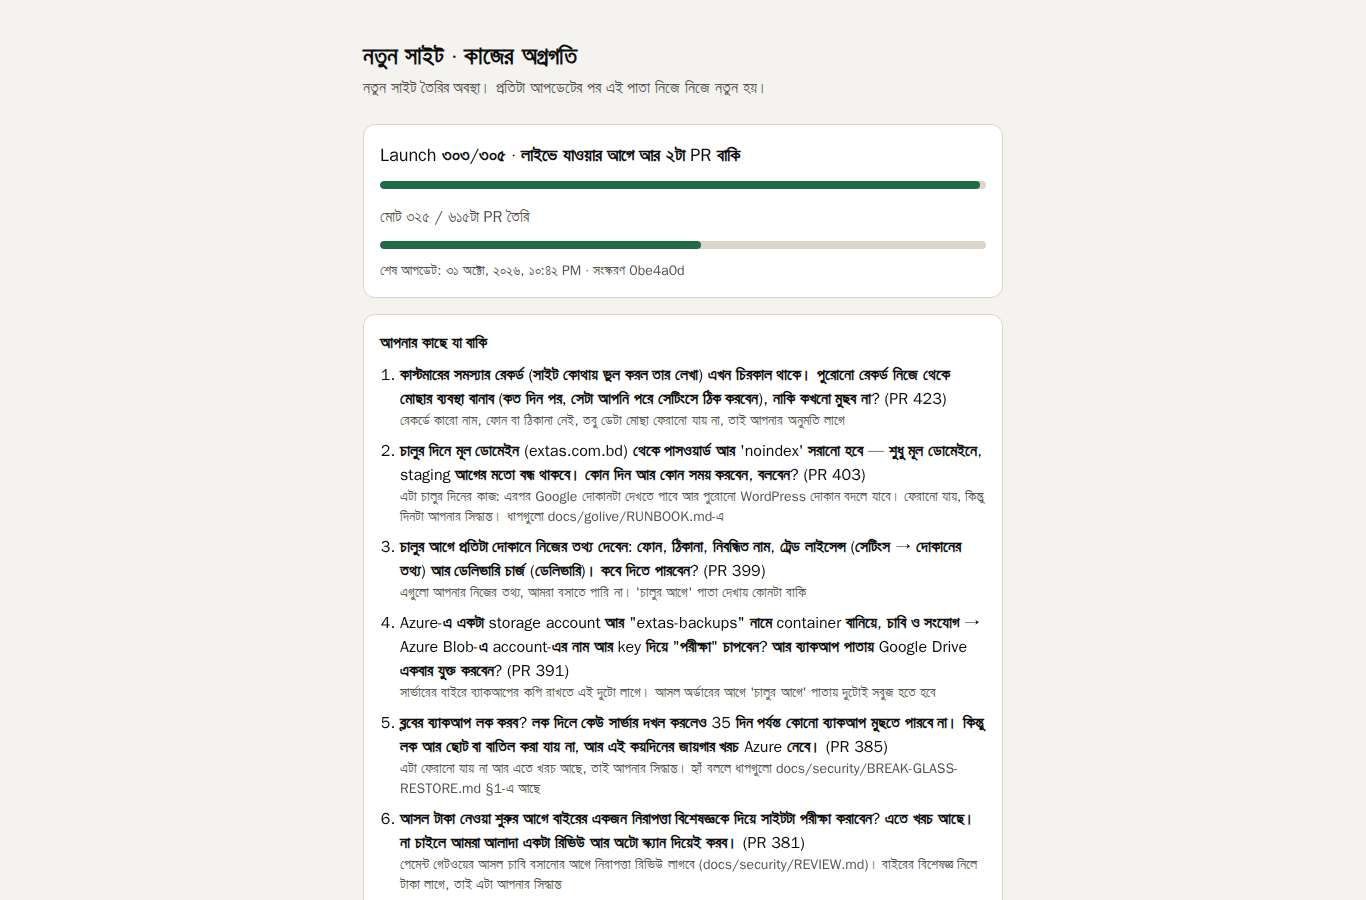
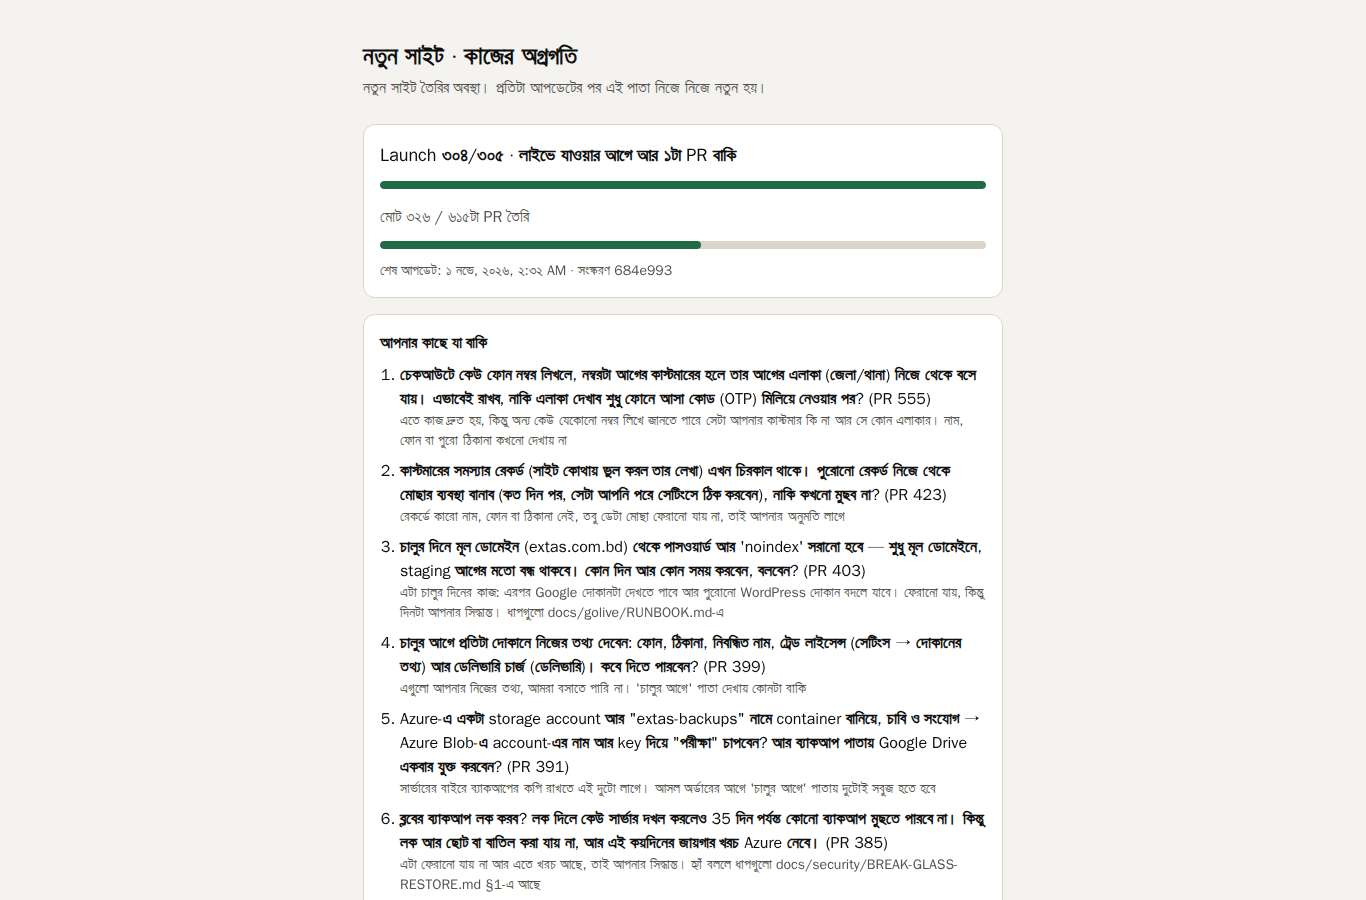
deploy report: 684e993d832c OK [skip ci]

Changed region(s): [[0.2767, 0.4044, 0.7379, 0.9956], [0.3382, 0.1556, 0.5534, 0.1867], [0.3382, 0.28, 0.4919, 0.3111]]

diff --git a/docs/reports/smoke/latest/README.md b/docs/reports/smoke/latest/README.md
@@ -1,8 +1,8 @@
-# Smoke test · 2026-10-31 22:42 (Asia/Dhaka)
+# Smoke test · 2026-11-01 02:32 (Asia/Dhaka)
 
 > **বাংলায়:** সব পাতা ঠিকমতো খুলেছে (260টা পাতা, ফোন আর কম্পিউটারে)। কোনো সমস্যা নেই।
 
-Site: https://new.extas.com.bd · commit `0be4a0df90ec` · after deploy · result **PASS** (260 page views, 0 failed)
+Site: https://new.extas.com.bd · commit `684e993d832c` · after deploy · result **PASS** (260 page views, 0 failed)
 
 | Page | Screen | Answer | Landed on | Result | Screenshot |
 |---|---|:-:|---|---|---|
@@ -72,7 +72,7 @@ Site: https://new.extas.com.bd · commit `0be4a0df90ec` · after deploy · resul
 | `/admin/stock` | phone | 200 | `/admin/stock` | ok | — |
 | `/admin/support` | phone | 200 | `/admin/support` | ok | — |
 | `/admin/website/seo` | phone | 200 | `/admin/website/seo` | ok | — |
-| `/admin?home=1` | phone | 200 | `/admin` | ok | — |
+| `/admin?home=1` | phone | 200 | `/admin` | ok | [picture](admin-home-1-phone.jpg) |
 | `/admin/products/queue` | phone | 200 | `/admin/products/queue` | ok | — |
 | `/admin/products/import` | phone | 200 | `/admin/products/import` | ok | — |
 | `/admin/products/audit` | phone | 200 | `/admin/products/audit` | ok | — |
@@ -135,7 +135,7 @@ Site: https://new.extas.com.bd · commit `0be4a0df90ec` · after deploy · resul
 | `/admin/website/seo/bengali` | phone | 200 | `/admin/website/seo/bengali` | ok | — |
 | `/admin/marketing/tracking` | phone | 200 | `/admin/marketing/tracking` | ok | — |
 | `/admin/combos?tab=report` | phone | 200 | `/admin/combos` | ok | — |
-| `/admin?home=1` | phone | 200 | `/admin` | ok | — |
+| `/admin?home=1` | phone | 200 | `/admin` | ok | [picture](admin-home-1-phone.jpg) |
 | `/` | desktop | 200 | `/` | ok | [picture](home-desktop.jpg) |
 | `/bn` | desktop | 200 | `/bn` | ok | [picture](bn-desktop.jpg) |
 | `/checkout` | desktop | 200 | `/checkout` | ok | [picture](checkout-desktop.jpg) |
@@ -202,7 +202,7 @@ Site: https://new.extas.com.bd · commit `0be4a0df90ec` · after deploy · resul
 | `/admin/stock` | desktop | 200 | `/admin/stock` | ok | — |
 | `/admin/support` | desktop | 200 | `/admin/support` | ok | — |
 | `/admin/website/seo` | desktop | 200 | `/admin/website/seo` | ok | — |
-| `/admin?home=1` | desktop | 200 | `/admin` | ok | — |
+| `/admin?home=1` | desktop | 200 | `/admin` | ok | [picture](admin-home-1-desktop.jpg) |
 | `/admin/products/queue` | desktop | 200 | `/admin/products/queue` | ok | — |
 | `/admin/products/import` | desktop | 200 | `/admin/products/import` | ok | — |
 | `/admin/products/audit` | desktop | 200 | `/admin/products/audit` | ok | — |
@@ -265,6 +265,6 @@ Site: https://new.extas.com.bd · commit `0be4a0df90ec` · after deploy · resul
 | `/admin/website/seo/bengali` | desktop | 200 | `/admin/website/seo/bengali` | ok | — |
 | `/admin/marketing/tracking` | desktop | 200 | `/admin/marketing/tracking` | ok | — |
 | `/admin/combos?tab=report` | desktop | 200 | `/admin/combos` | ok | — |
-| `/admin?home=1` | desktop | 200 | `/admin` | ok | — |
+| `/admin?home=1` | desktop | 200 | `/admin` | ok | [picture](admin-home-1-desktop.jpg) |
 
 Database (PR 139): ok: 30 tables append-only; the app connects as extas_app.

diff --git a/docs/reports/server/deploy-latest.md b/docs/reports/server/deploy-latest.md
@@ -4,13 +4,13 @@ Written by `deploy.yml` after every deploy (`infra/deploy/deploy-report.sh`). Hi
 
 | | |
 |---|---|
-| Commit | `0be4a0df90ec` |
-| Time (Asia/Dhaka) | 2026-10-31 22:46 |
+| Commit | `684e993d832c` |
+| Time (Asia/Dhaka) | 2026-11-01 02:36 |
 | Result | **OK** |
 | Database migration | ok |
-| Health check on new.extas.com.bd | OK — HTTP 200 from https://new.extas.com.bd/api/health, version 0be4a0df90ec, colour green |
-| Smoke test (every page) | OK — 260 page views, signed out and as the admin, phone and desktop (pictures: `docs/reports/smoke/latest/`) |
-| Docs on the server | `0be4a0df90ec` — README.md + docs/ (2394 files) |
+| Health check on new.extas.com.bd | OK — HTTP 200 from https://new.extas.com.bd/api/health, version 684e993d832c, colour blue |
+| Smoke test (every page) | OK — 260 page views, signed out and as the admin, phone and desktop (storefront pictures: `docs/reports/smoke/latest/`; the admin pictures stay on the server) |
+| Docs on the server | `684e993d832c` — README.md + docs/ (2257 files) |
 | Main disk (/) | 120 GB free after the clean-up (was 120 GB), at least 15 GB needed |
-| Live colour | green |
-| Run log | https://github.com/mehadih32/Extas-Ecommerce-Site/actions/runs/41220573686 |
+| Live colour | blue |
+| Run log | https://github.com/mehadih32/Extas-Ecommerce-Site/actions/runs/41239153398 |

diff --git a/docs/reports/erp-acceptance/latest/README.md b/docs/reports/erp-acceptance/latest/README.md
@@ -2,5 +2,5 @@
 
 **সারকথা:** ডেমো ERP-এর চাবির অপেক্ষায়। মালিক সেটিংস → ERP সংযোগ পাতায় ডেমো দোকানের চাবি দিলে প্রতি রাতে আর প্রতিটা রিলিজের আগে এই পরীক্ষা চলবে।
 
-- 2026-10-31T16:41:36.862Z: waiting for the demo key. Nothing was called; nothing failed.
+- 2026-10-31T20:32:10.122Z: waiting for the demo key. Nothing was called; nothing failed.
 - The practice ERP runs every check in CI (packages/adapters/test/erp-acceptance.test.ts, the books drills).

diff --git a/docs/reports/server/deploy-history.md b/docs/reports/server/deploy-history.md
@@ -74,3 +74,4 @@ One line per deploy, newest last, appended by `deploy.yml`. Time: Asia/Dhaka.
 | 2026-10-31 17:25 | `311dbd60375b` | deploy | OK | ok | OK, smoke OK | — |
 | 2026-10-31 19:14 | `83e2defd79d0` | deploy | OK | ok | OK, smoke OK | — |
 | 2026-10-31 22:46 | `0be4a0df90ec` | deploy | OK | ok | OK, smoke OK | — |
+| 2026-11-01 02:36 | `684e993d832c` | deploy | OK | ok | OK, smoke OK | — |
